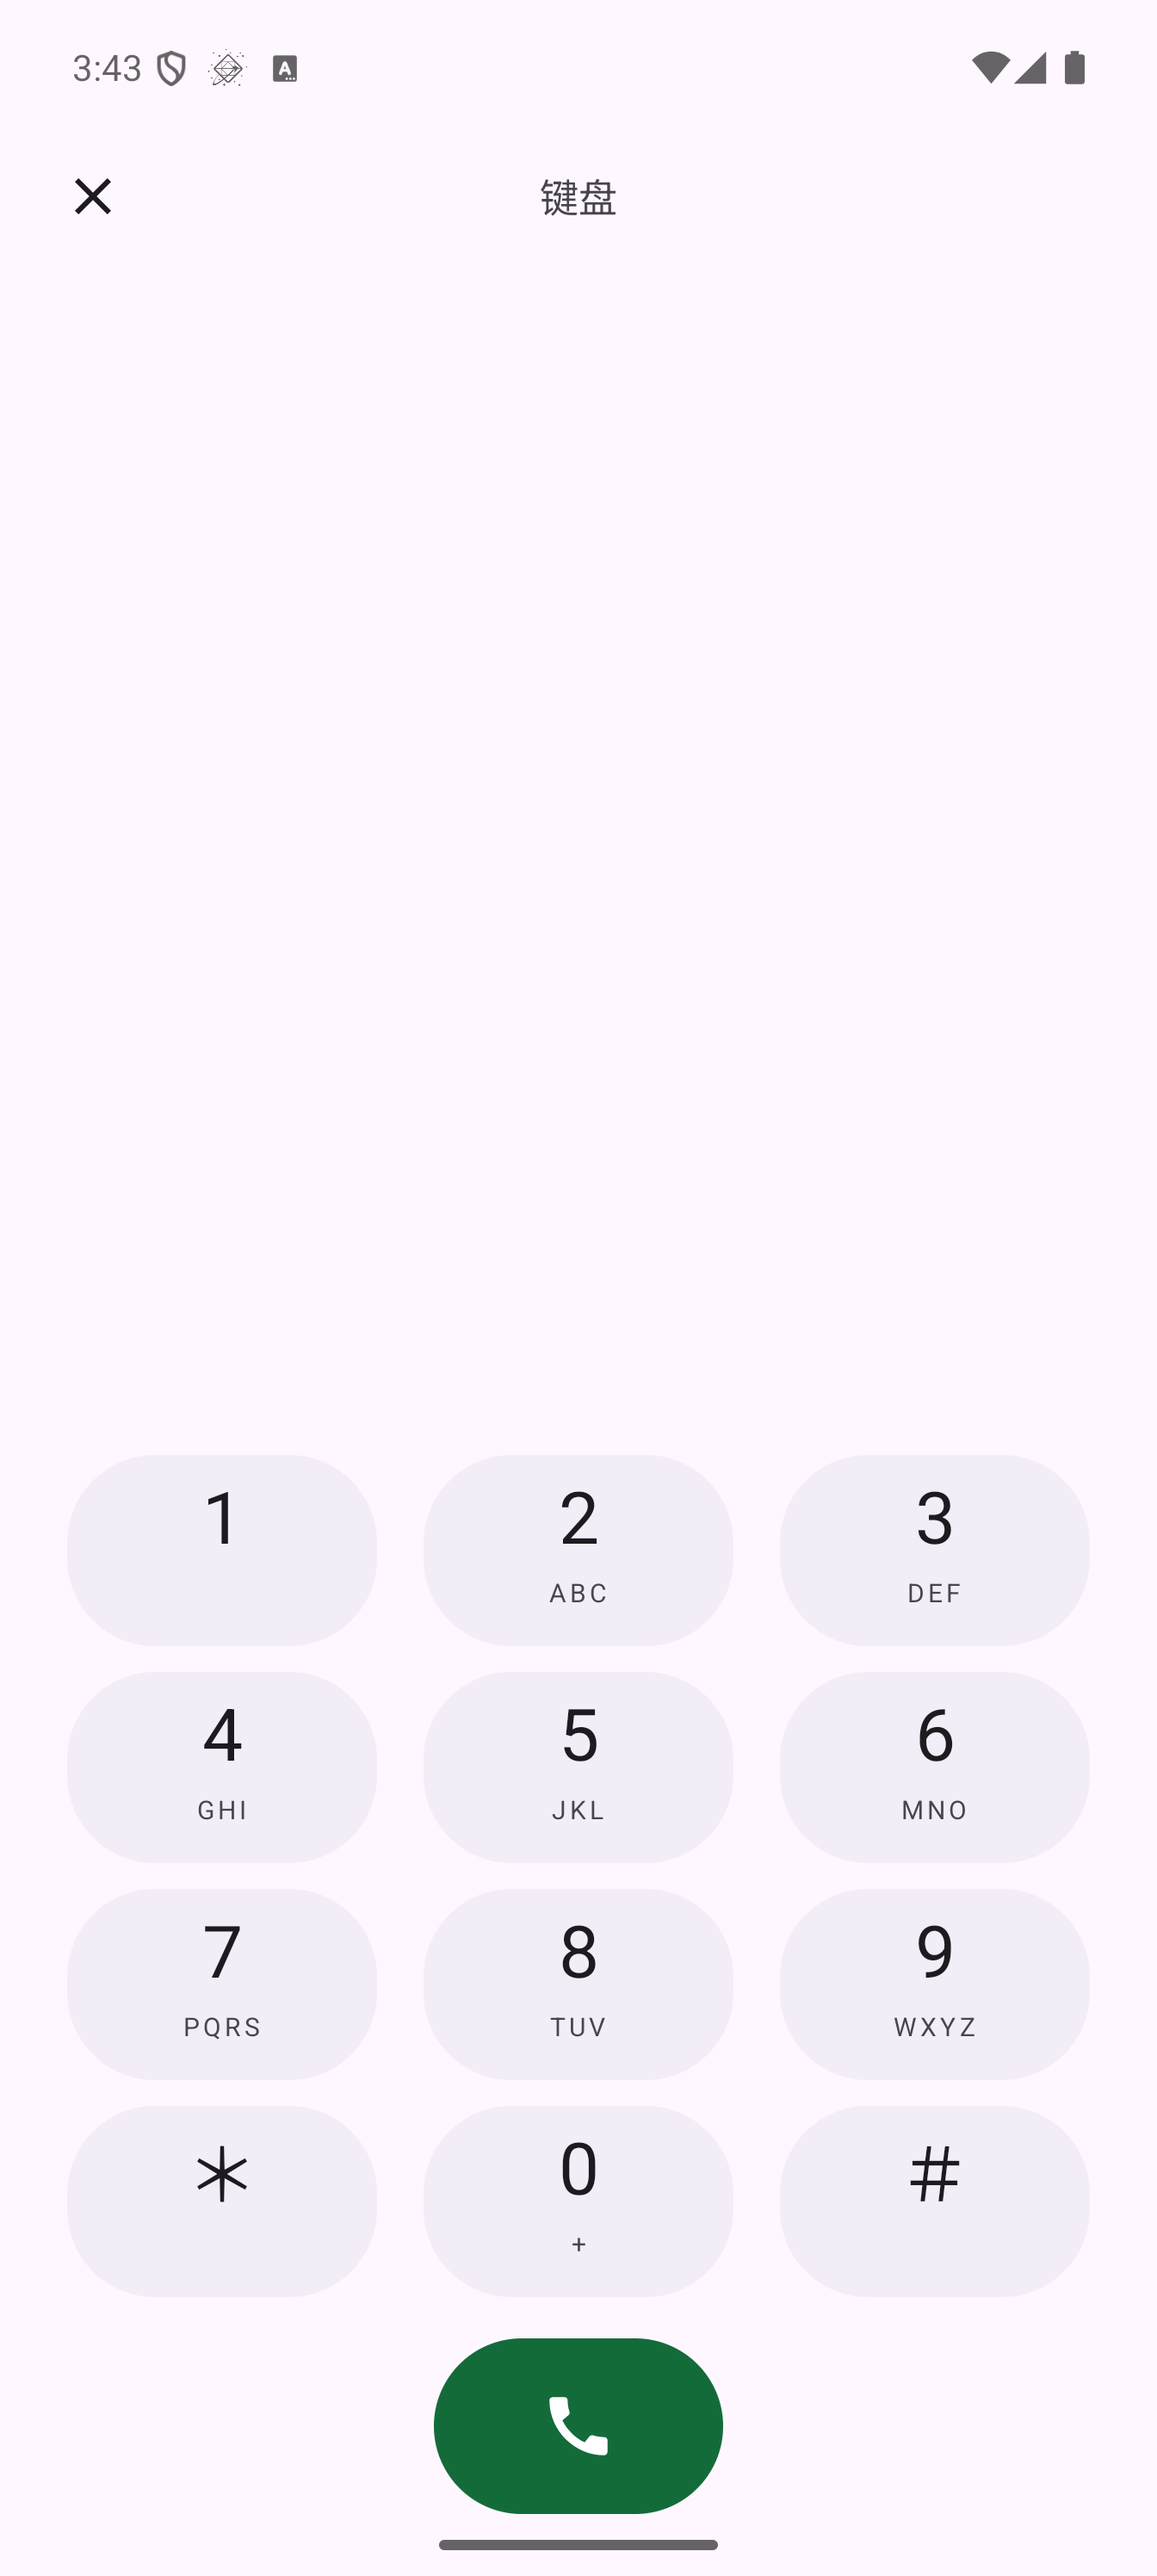
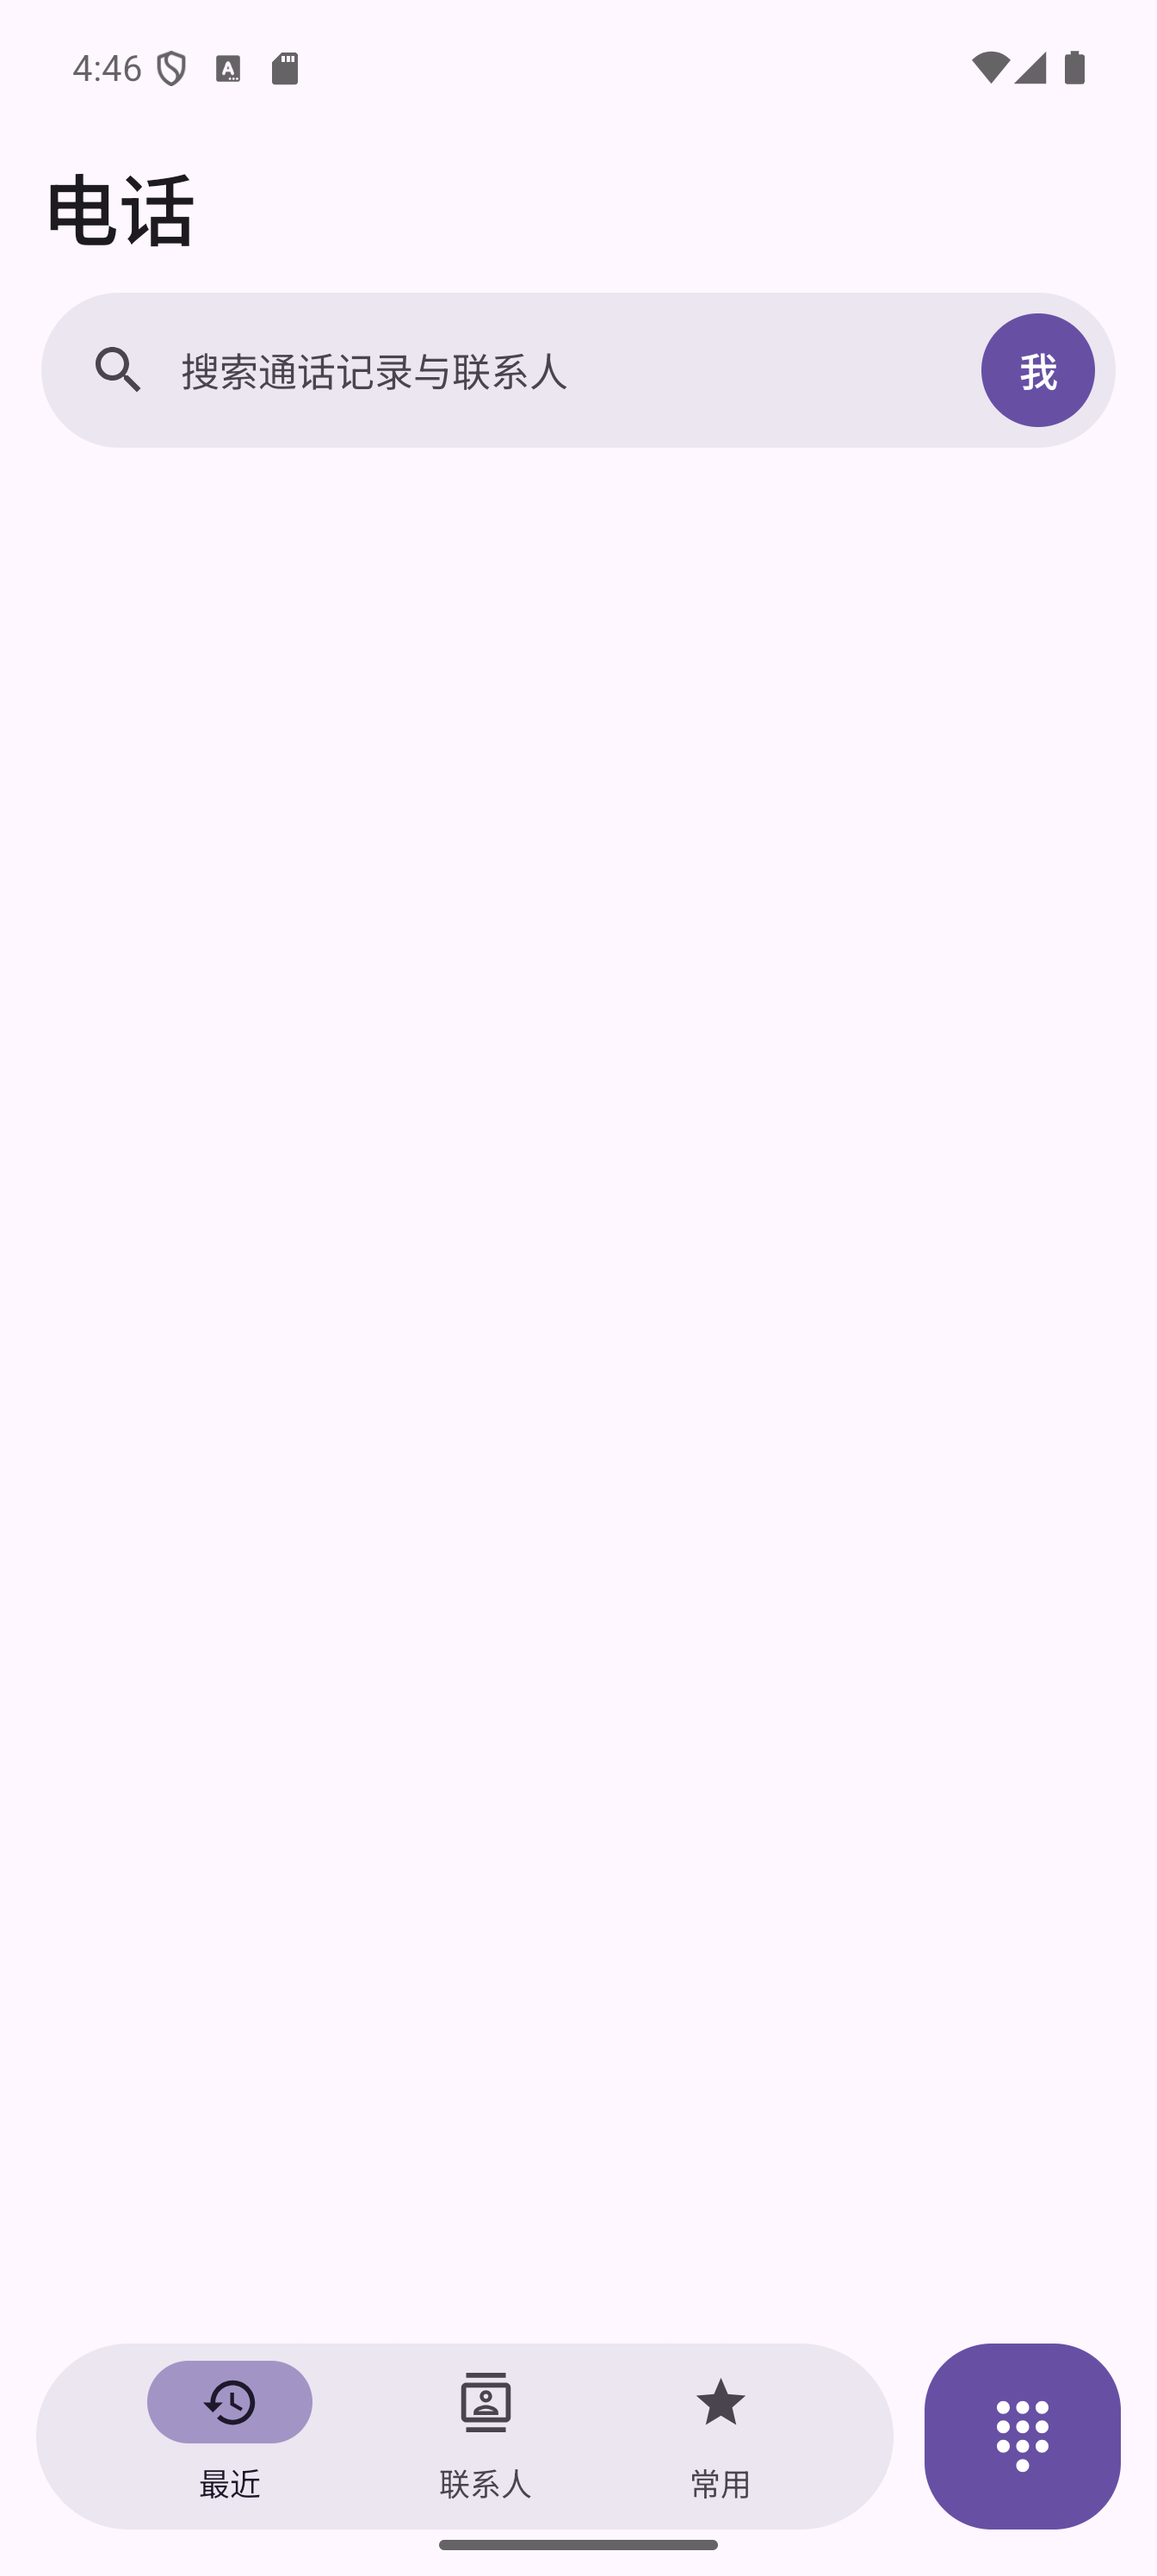
Replace phone preview with main screen

diff --git a/README.md b/README.md
@@ -13,7 +13,7 @@
 
 ### 电话 App
 
-![Evelorion Phone 拨号盘](screenshots/phone-app.png)
+![Evelorion Phone 主界面](screenshots/phone-app.png)
 
 ### 通讯录 App
 
